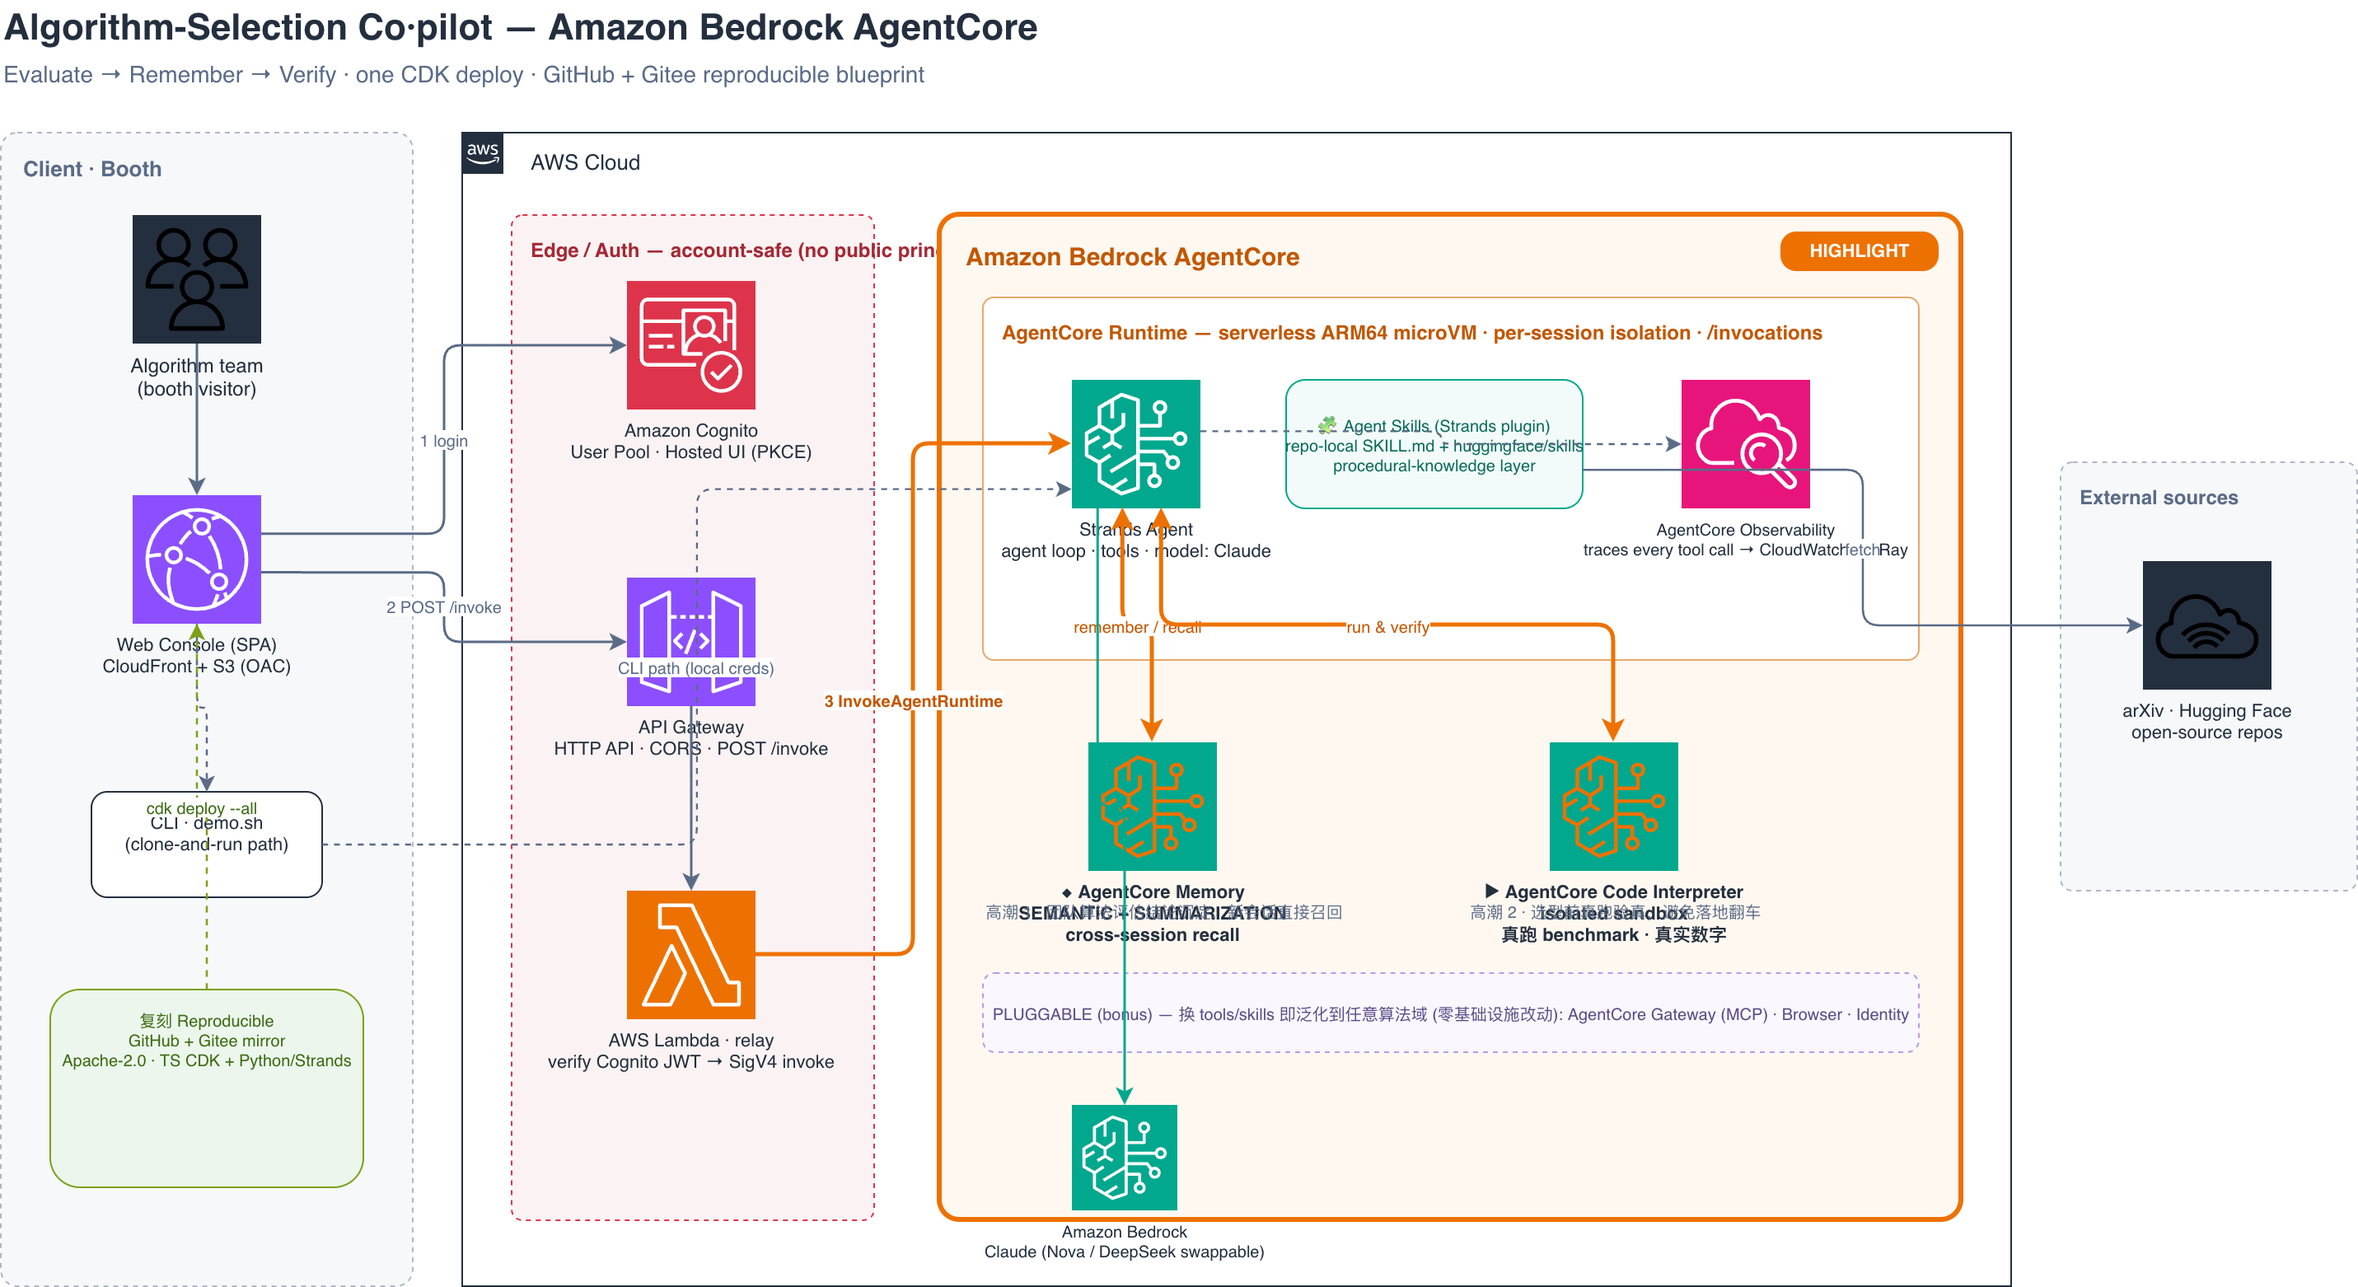
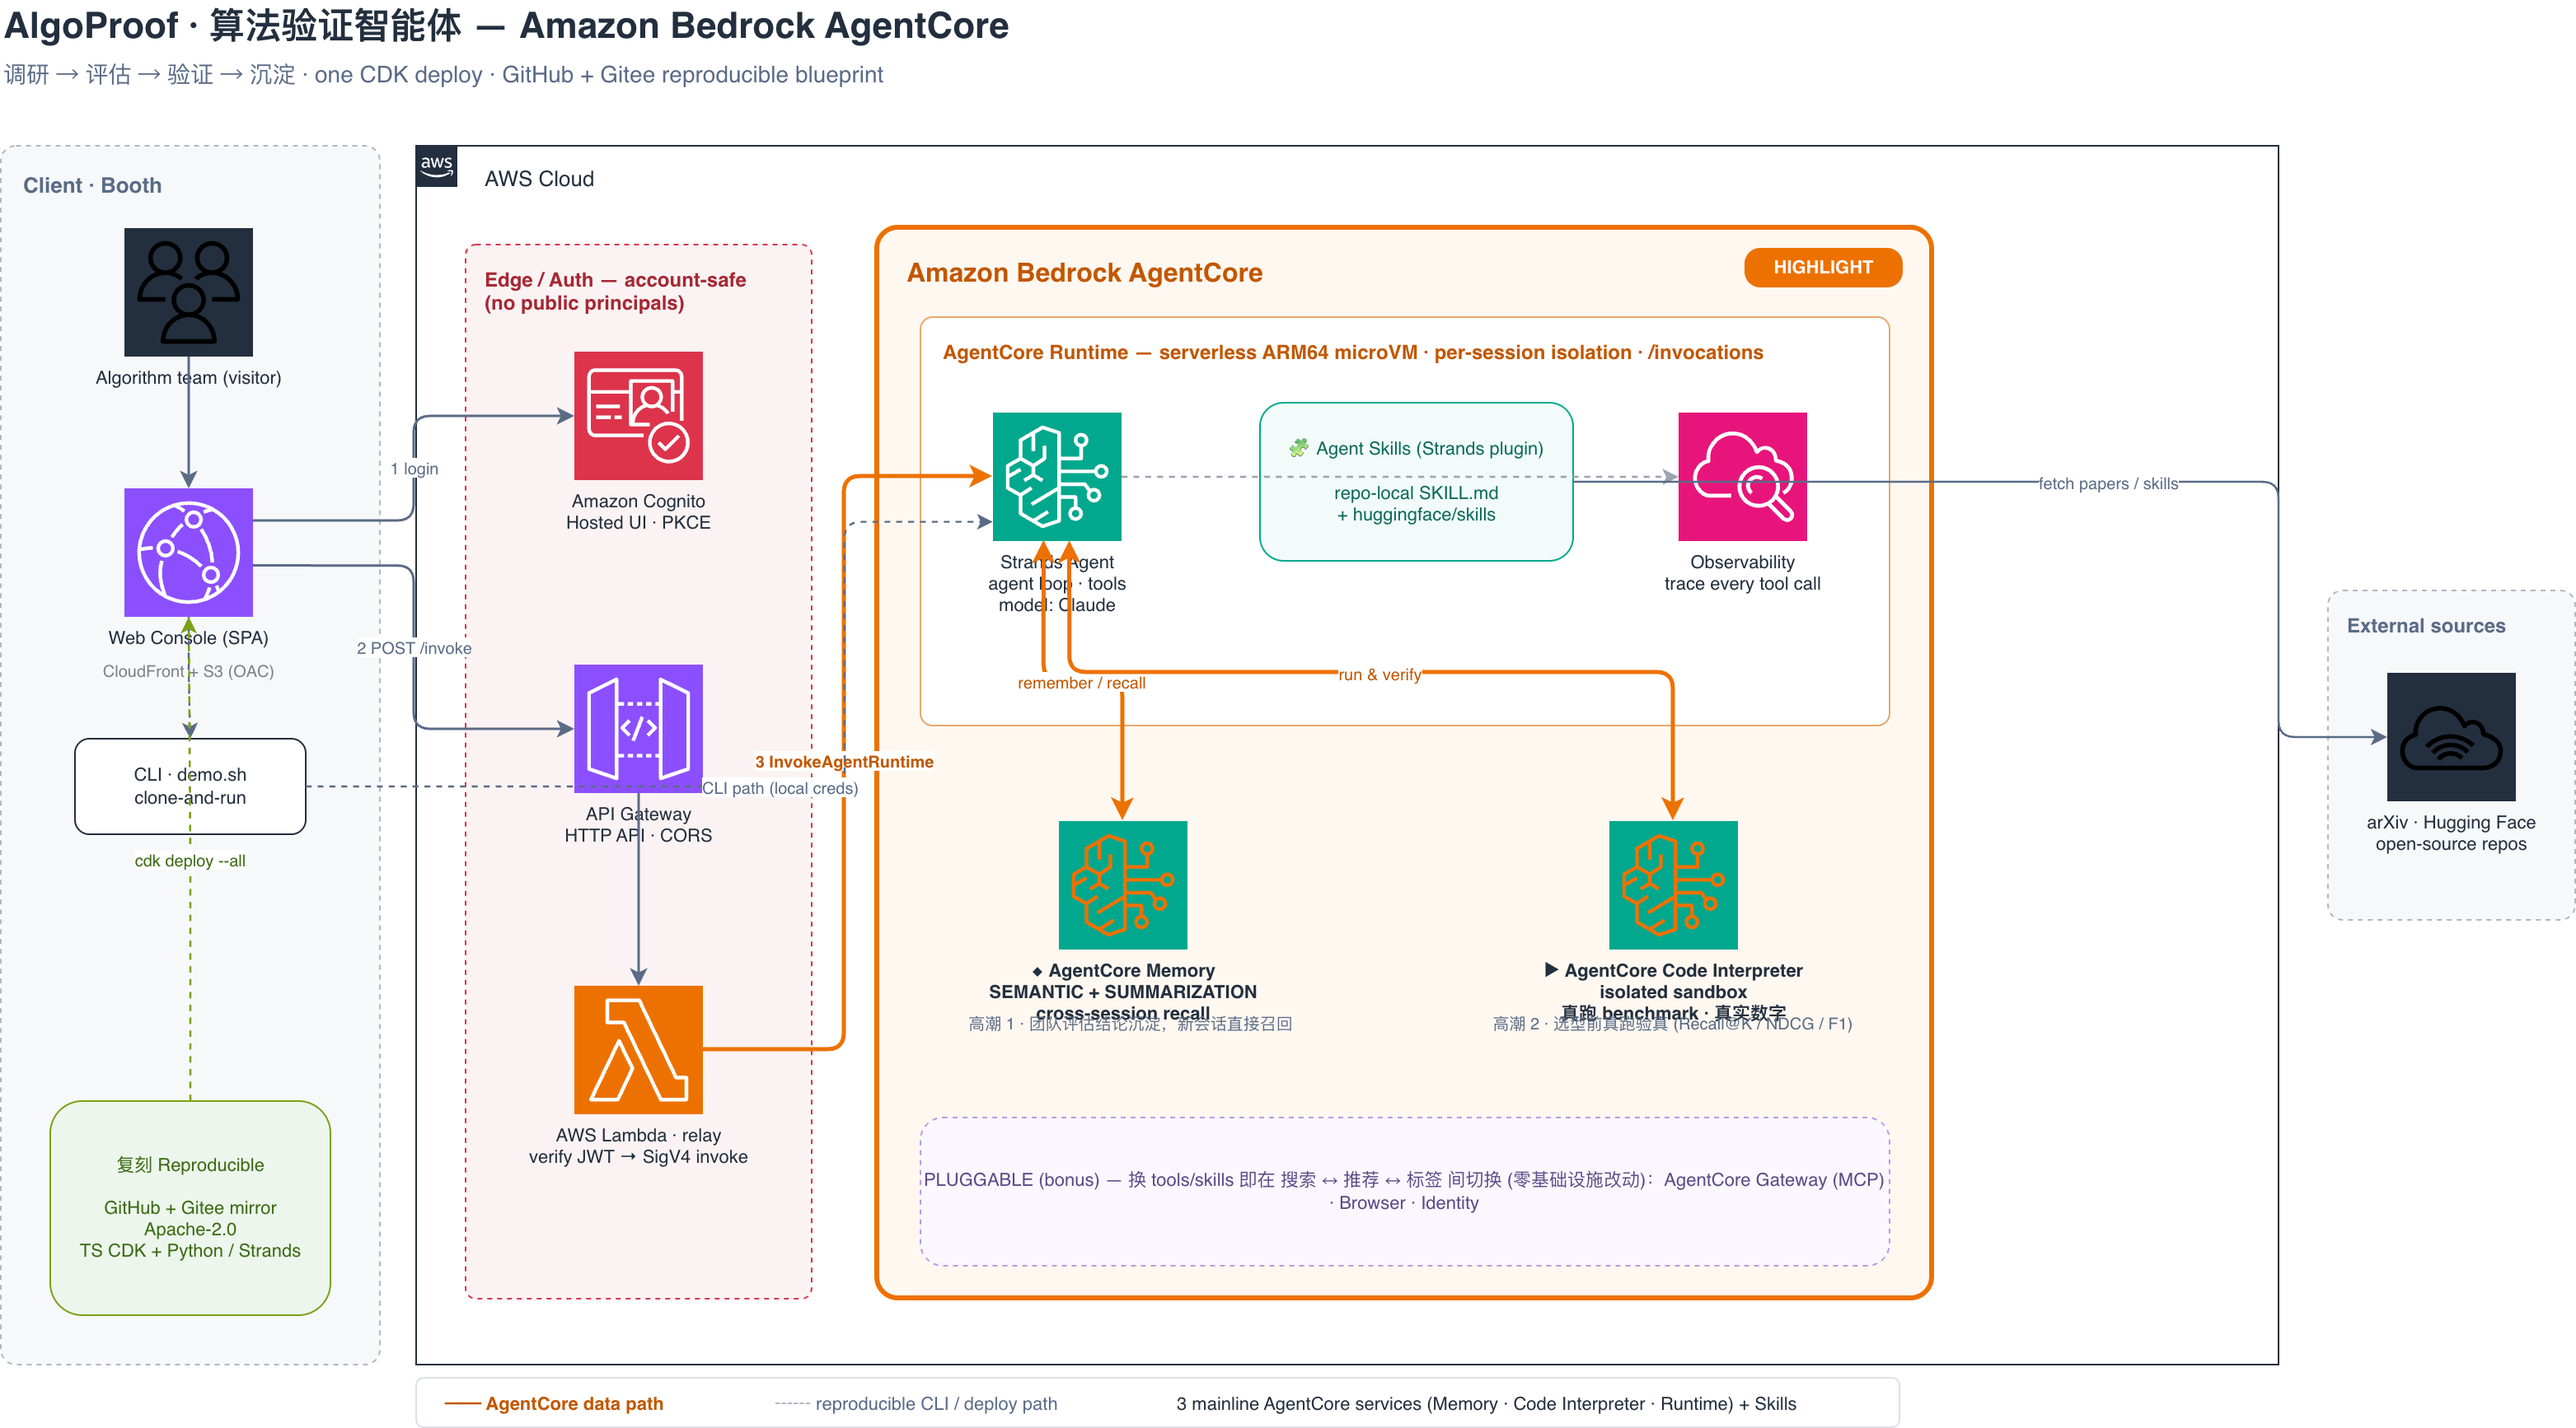
📊 docs: rework draw.io diagram (no overlaps) + name AlgoProof, Quip-style intro
draw.io diagram redrawn with spaced-out AWS icons (no element overlap), AWS
Cloud group, highlighted AgentCore box; .drawio source committed. Demo named
"算法验证智能体 / AlgoProof"; intro rewritten in the Quip house style
(调研→评估→验证→沉淀), anchored on search/recommendation/tagging as examples,
≤150 CJK chars. Team = IVT.

diff --git a/07-agentcore-demo/docs/summit-nomination.md b/07-agentcore-demo/docs/summit-nomination.md
@@ -3,14 +3,14 @@
 > 填入 Quip 提名表的一行。各列对应 Demo Owner 行动项（B/C/D/F/G…）。
 > 架构图见 `docs/architecture.png`（draw.io · AWS 官方图标 · AgentCore 高亮；源文件 `architecture_diagram` drawio session）。
 >
-> **定位**：企业**搜索 / 推荐 / 标签**等算法团队的「技术选型与验证副驾」——一个真实、跨行业、
-> 高度涉及算法的企业业务场景；弱化具体行业，突出通用算法工程能力。
+> **定位**：AlgoProof（算法验证智能体）——帮企业算法团队加速「技术选型与方案验证」类工作；
+> 以搜索 / 推荐 / 标签为示例场景，弱化具体行业，突出通用算法工程提效能力。
 
 ---
 
 ## A · Demo 名称（≤10 字）
-**算法选型副驾**
-（备选：算法验证副驾 / 算法落地副驾）
+**算法验证智能体**
+（英文/品牌名：AlgoProof）
 
 > 注：提名表第 14 行已有「自主科研Agent」(Synapse, weiyihao)，主打 **Gateway + Runtime + MCP/GPU 编排**的科研项目编排。
 > 本 Demo 走 **不同的 AgentCore 服务组合与业务场景**：面向**企业算法团队的技术选型与方案验证**，
@@ -18,7 +18,7 @@
 
 ## B · Demo 简介（≤150 字，含 AgentCore/Bedrock 如何实现、用了哪些 service、区别在哪）
 
-> 面向企业**搜索/推荐/标签系统**等算法团队的「技术选型与验证副驾」。以「为推荐系统选一个新的召回/排序模型」为例：副驾自动「读源材料 → 沉淀评估结论 → 跨会话复用 → 在隔离沙箱真跑 benchmark（如 Recall@K、NDCG）验证宣称指标」。**AgentCore Memory**（SEMANTIC+SUMMARIZATION）把团队历次选型结论沉淀为长期记忆，新会话直接召回，不重复踩坑；**AgentCore Code Interpreter** 让选型不靠论文/厂商口述指标，而是当场跑出真实数字再决策，根治「离线指标漂亮、上线效果翻车」；评估 SOP 固化为可复用 **Skills**（含 huggingface/skills）。基于 Strands Agents，一条 `cdk deploy` 起全栈，GitHub+Gitee 可复刻。换 tools/skills 即在搜索/推荐/标签间切换。
+> AlgoProof（算法验证智能体）是面向企业算法团队（搜索、推荐、标签等）加速「技术选型与验证」类工作的智能体：基于 Amazon Bedrock AgentCore（Strands Agents SDK），按"调研 → 评估 → 验证 → 沉淀"协同——读源材料产出结构化评估卡，并在 **AgentCore Code Interpreter** 沙箱里真跑 benchmark（如 Recall@K / NDCG / F1）验证宣称指标，根治"离线漂亮、上线翻车"；团队历次结论由 **AgentCore Memory**（SEMANTIC + SUMMARIZATION）跨会话记忆并召回，不重复踩坑；评估方法论沉淀为可复用 **Skills**（含 huggingface/skills）。一条 `cdk deploy` 起全栈，GitHub + Gitee 可复刻；换 tools/skills 即在搜索/推荐/标签等算法域间切换。
 
 ## C · AgentCore Services（最多 3 个，按演示重点排序，不要默认 Runtime 在前）
 
@@ -49,7 +49,7 @@
 | Team | IVT |
 | Key AWS Product/Service | Amazon Bedrock AgentCore (Memory / Code Interpreter / Runtime / Observability), Strands Agents SDK, Cognito, API Gateway, Lambda, CloudFront, CDK |
 | LLM Model | Claude（Nova / DeepSeek 可切换） |
-| 特殊设备需求 | 无特殊要求；10Mbps 有线 + 1 Win PC 双屏即可（一屏 Web 控制台、一屏 CLI/日志） |
+| 特殊设备需求 | 无特殊要求； |
 | 时间安排 | 待定 |
 
 ---
